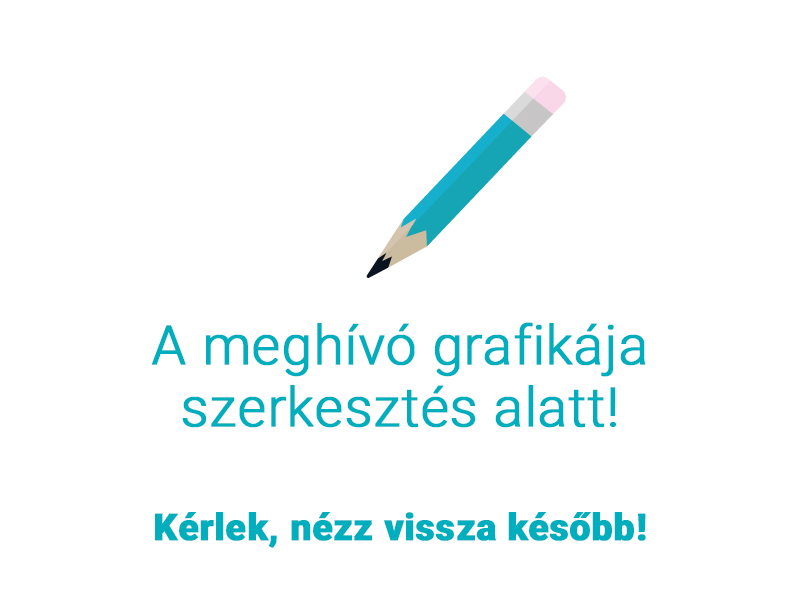
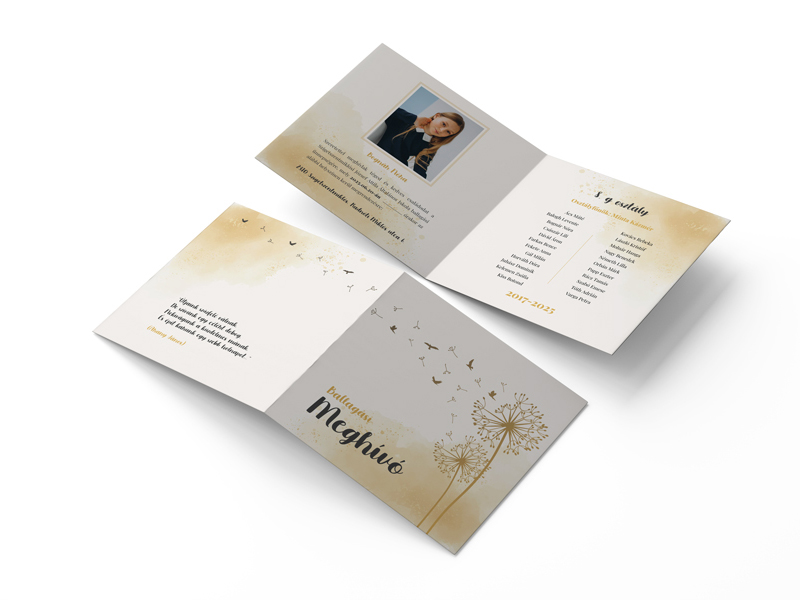
ss

diff --git a/index.html b/index.html
@@ -126,7 +126,8 @@
       <div class="product">
         <img class="product__pic" src="assets/invitation_card.jpg" alt="Meghívó">
         <h4>Ballagási meghívó</h4>
-        <p class="product__text">Fotóval, szöveggel és idézettel</p>
+        <p class="product__text">13.5 cm x 13.5 cm (hajtott méret)</p>
+        <p class="small-text">Fotóval, névvel, szöveggel és idézettel</p>
         <p class="small-text">(Egyedi feliratok és idézet is kérhető rá!) </p>
       </div>
 
